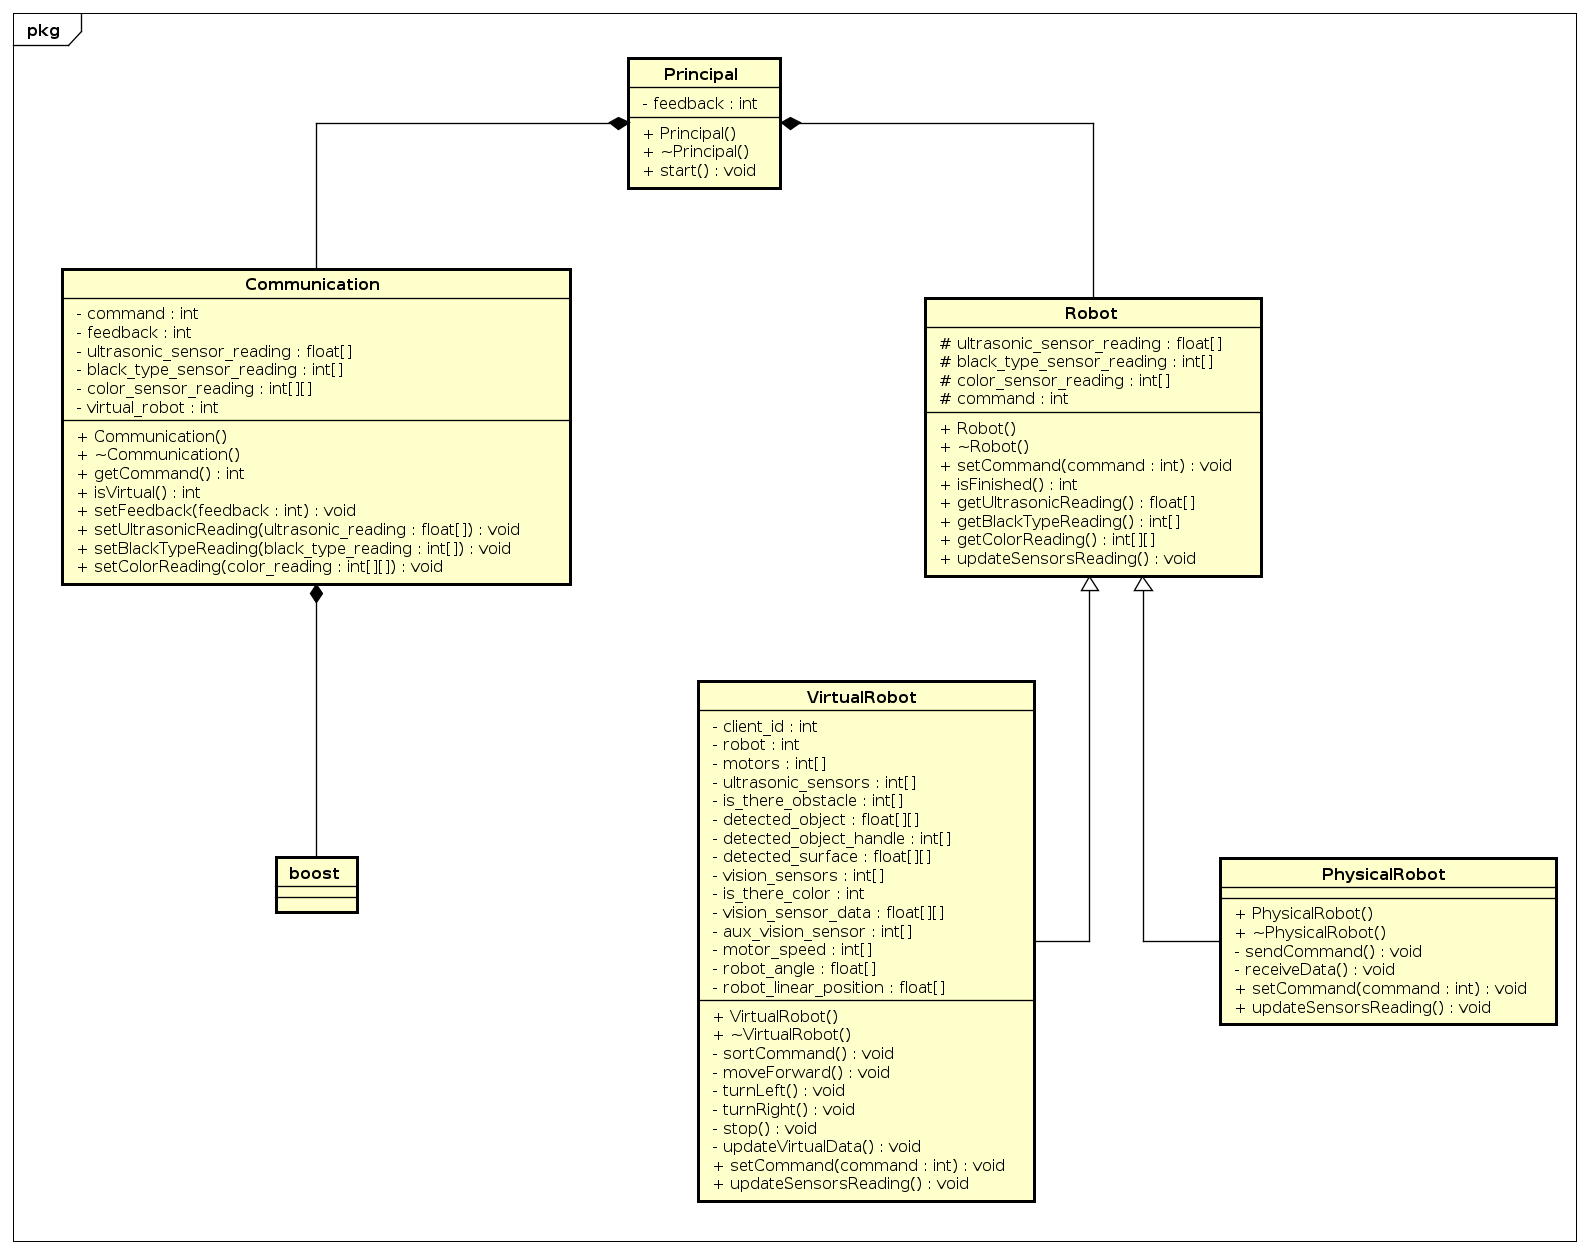
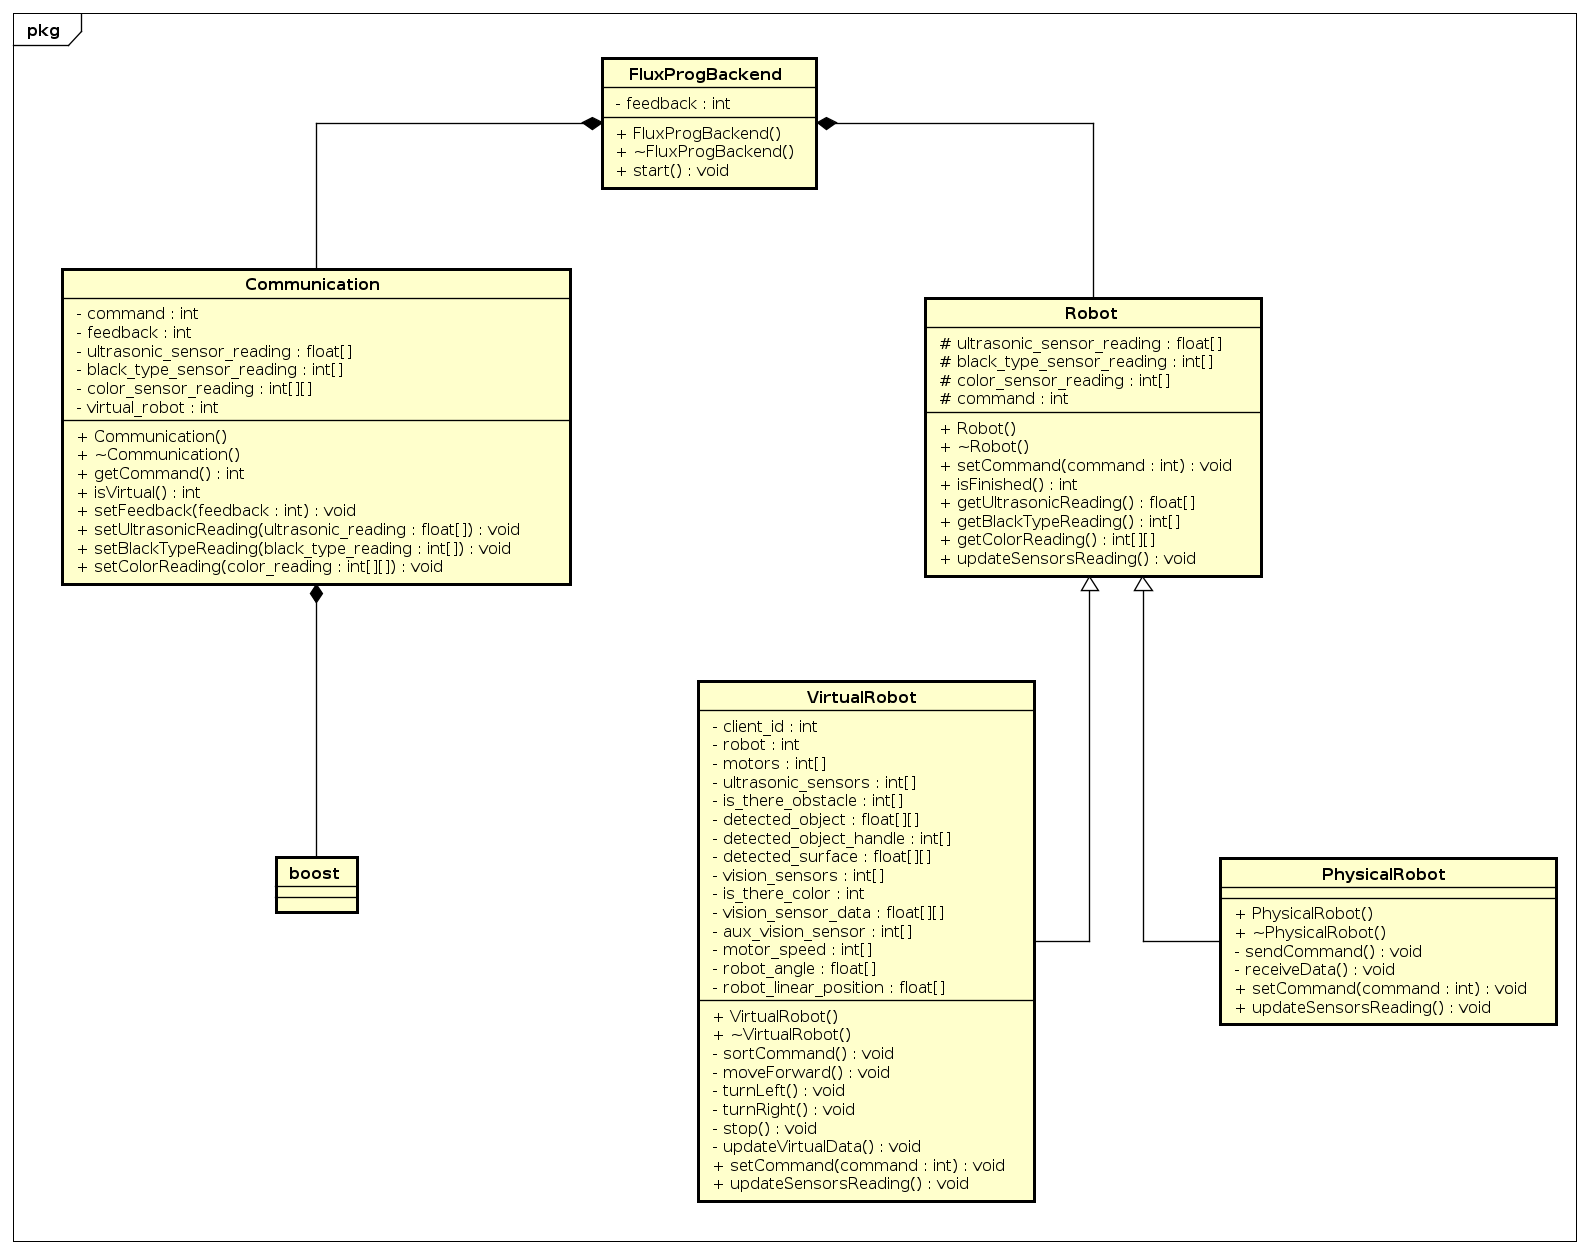
changed some files names

Changed region(s): [[0.37, 0.0311, 0.5242, 0.1555]]

diff --git a/fluxprog/FluxProgBackend/FluxProgBackend.cpp b/fluxprog/FluxProgBackend/FluxProgBackend.cpp
@@ -1,6 +1,6 @@
-#include "Principal.hpp"
+#include "FluxProgBackend.hpp"
 
-Principal::Principal()
+FluxProgBackend::FluxProgBackend()
 {
     communication = new Communication();
     virtual_robot = NULL;
@@ -8,7 +8,7 @@ Principal::Principal()
     feedback = 0;
 }
 
-Principal::~Principal()
+FluxProgBackend::~FluxProgBackend()
 {
     delete communication;
     if(virtual_robot != NULL)
@@ -21,7 +21,7 @@ Principal::~Principal()
     }
 }
 
-void Principal::connect()
+void FluxProgBackend::connect()
 {
     //abertura das paradas
     int error = 0;
@@ -53,7 +53,7 @@ void Principal::connect()
     }
 }
 
-void Principal::start()
+void FluxProgBackend::start()
 {
     connect();
     int command = 0;

diff --git a/fluxprog/FluxProgBackend/FluxProgBackend.hpp b/fluxprog/FluxProgBackend/FluxProgBackend.hpp
@@ -1,21 +1,21 @@
 //biblioteca feita para agregacao dos componentes do fluxprogbackend
 
-#ifndef _PRINCIPAL_HPP_
-#define _PRINCIPAL_HPP_
+#ifndef _FLUXPROGBACKEND_HPP_
+#define _FLUXPROGBACKEND_HPP_
 #include "Communication.hpp"
 #include "VirtualRobot.hpp"
 #include "PhysicalRobot.hpp"
 #include "fluxProgBackendCte.h"
 
-class Principal{
+class FluxProgBackend{
     int feedback;
     Communication *communication;
     VirtualRobot *virtual_robot;
     PhysicalRobot *physical_robot;
 
 public:
-    Principal();
-    ~Principal();
+    FluxProgBackend();
+    ~FluxProgBackend();
     void start();
     void connect();
 };

diff --git a/fluxprog/FluxProgBackend/PhysicalRobot.cpp b/fluxprog/FluxProgBackend/PhysicalRobot.cpp
@@ -55,12 +55,12 @@ void PhysicalRobot::receiveData()
         for (i = 0; i < N_BLACK_TAPE_SENSOR; i++)
         {
             black_type_sensor_reading[i] = reading[i];
-            std::cout <<black_type_sensor_reading[i]<<" ";
+            //std::cout <<black_type_sensor_reading[i]<<" ";
         }
         for (i = 0; i < N_ULTRASONIC; i++)
         {
             ultrasonic_sensor_reading[i] = *(unsigned short int*)&reading[2*i + 5];
-            std::cout <<ultrasonic_sensor_reading[i]<<" ";
+            //std::cout <<ultrasonic_sensor_reading[i]<<" ";
         }
         std::cout<<std::endl;
         command = 1;

diff --git a/fluxprog/FluxProgBackend/main.cpp b/fluxprog/FluxProgBackend/main.cpp
@@ -1,9 +1,8 @@
-#include "Principal.hpp"
+#include "FluxProgBackend.hpp"
 
 int main()
 {
-    Principal principal = Principal();
-    principal.start();
-    cout <<"oi de novo"<<endl;
+    FluxProgBackend backend = FluxProgBackend();
+    backend.start();
     return 0;
 }
